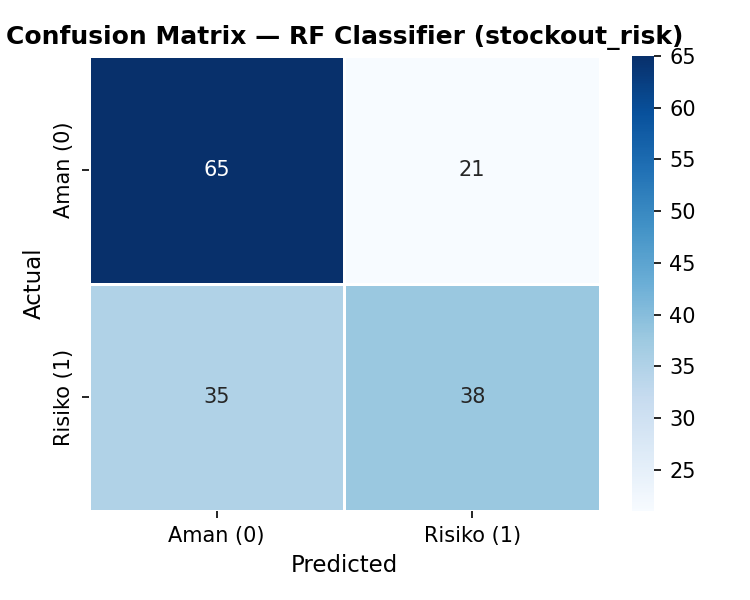
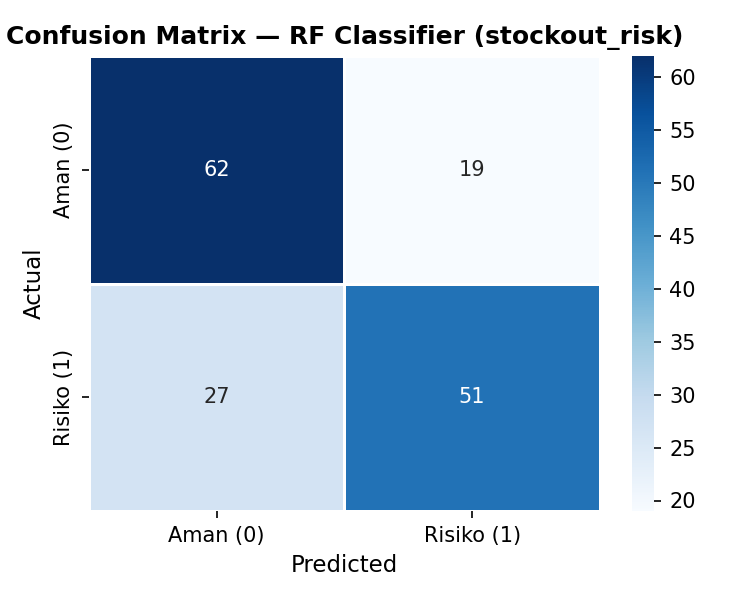
ini tidak perlu?

diff --git a/scripts/feature_selection.py b/scripts/feature_selection.py
@@ -1,0 +1,73 @@
+import os
+import matplotlib.pyplot as plt
+import matplotlib
+matplotlib.use('Agg')
+import seaborn as sns
+import pandas as pd
+import numpy as np
+from pyspark.sql import SparkSession
+from pyspark.ml.stat import Correlation
+from pyspark.ml.feature import VectorAssembler
+
+# ─────────────────────────────────────────────
+# 1. SPARK SESSION SETUP
+# ─────────────────────────────────────────────
+def make_spark():
+    endpoint   = os.environ.get("MINIO_ENDPOINT",   "minio-kelompok2:9000")
+    access_key = os.environ.get("MINIO_ACCESS_KEY", "minioadmin")
+    secret_key = os.environ.get("MINIO_SECRET_KEY", "minioadmin")
+    
+    return (SparkSession.builder
+        .appName("Feature Selection Analysis")
+        .config("spark.hadoop.fs.s3a.endpoint",               f"http://{endpoint}")
+        .config("spark.hadoop.fs.s3a.access.key",             access_key)
+        .config("spark.hadoop.fs.s3a.secret.key",             secret_key)
+        .config("spark.hadoop.fs.s3a.path.style.access",      "true")
+        .config("spark.hadoop.fs.s3a.impl",                   "org.apache.hadoop.fs.s3a.S3AFileSystem")
+        .getOrCreate())
+
+# ─────────────────────────────────────────────
+# 2. MAIN ANALYSIS FUNCTION
+# ─────────────────────────────────────────────
+def main():
+    spark = make_spark()
+    spark.sparkContext.setLogLevel("ERROR")
+    
+    INPUT_PATH = "s3a://datalake-kelompok2/gold/ml_ready/"
+    OUTPUT_PATH     = f"s3a://datalake-kelompok2/gold/feature_selection/"
+    PLOT_LOCAL = "plots/correlation_matrix.png"
+    
+    print(f"[INFO] Loading data from {INPUT_PATH}...")
+    df = spark.read.parquet(INPUT_PATH)
+
+    # Definisikan fitur kandidat dan target
+    candidate_features = [
+        "sales_velocity", "stock_on_hand", "avg_daily_demand", 
+        "procurement_lead_time", "supplier_risk", "order_buffer_index", 
+        "stock_cover", "inventory_turnover_rate", "log_sales", 
+        "demand_to_stock_ratio", "total_sales", "transaction_frequency"
+    ]
+    target_col = "reorder_point"
+    all_cols = candidate_features + [target_col]
+
+    # --- A. Hitung Korelasi menggunakan Spark MLlib ---
+    assembler = VectorAssembler(inputCols=all_cols, outputCol="features", handleInvalid="keep")
+    v_df = assembler.transform(df).select("features")
+    
+    matrix = Correlation.corr(v_df, "features").collect()[0][0]
+    corr_matrix = matrix.toArray()
+
+    # --- B. Visualisasi dengan Seaborn ---
+    corr_df = pd.DataFrame(corr_matrix, index=all_cols, columns=all_cols)
+    
+    plt.figure(figsize=(12, 10))
+    sns.heatmap(corr_df, annot=True, fmt=".2f", cmap='coolwarm', center=0)
+    plt.title("Correlation Matrix - Inventory Features")
+    plt.tight_layout()
+    
+    # Simpan lokal dulu
+    plt.savefig(PLOT_LOCAL)
+    print(f"[✅] Plot berhasil dibuat secara lokal: {PLOT_LOCAL}")
+
+if __name__ == "__main__":
+    main()

diff --git a/scripts/modeling.py b/scripts/modeling.py
@@ -45,14 +45,14 @@ OUTPUT_PATH     = f"{BUCKET}/gold/modeling_results/"
 PLOT_DIR        = "plots"          
 
 FEATURE_COLS = [
-    "sales_velocity",
-    "stock_on_hand",
+    # "sales_velocity",
+    # "stock_on_hand",
     "avg_daily_demand",
     "procurement_lead_time",
     "supplier_risk",
-    "order_buffer_index",
+    # "order_buffer_index",
     "inventory_turnover_rate",
-    "log_sales",
+    # "log_sales",
     "demand_to_stock_ratio",
 ]
 
